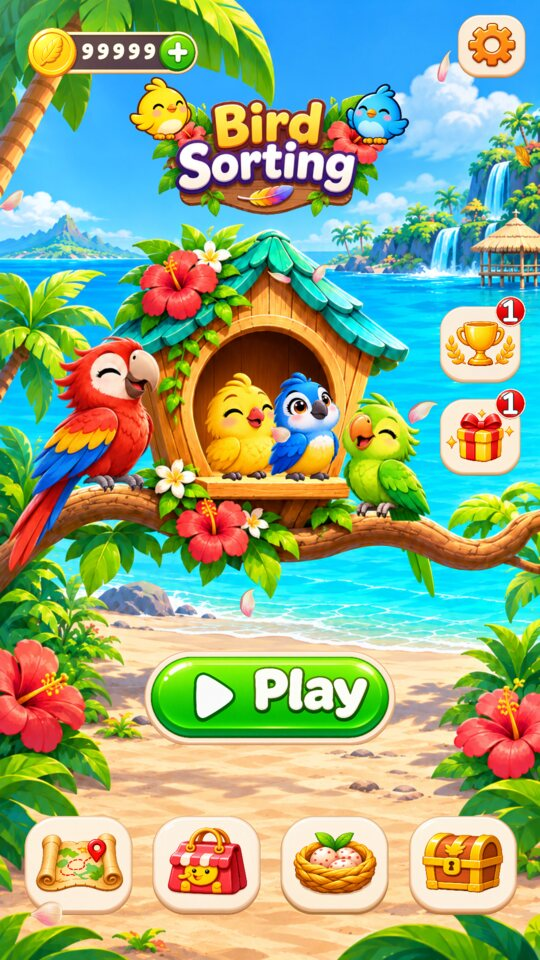
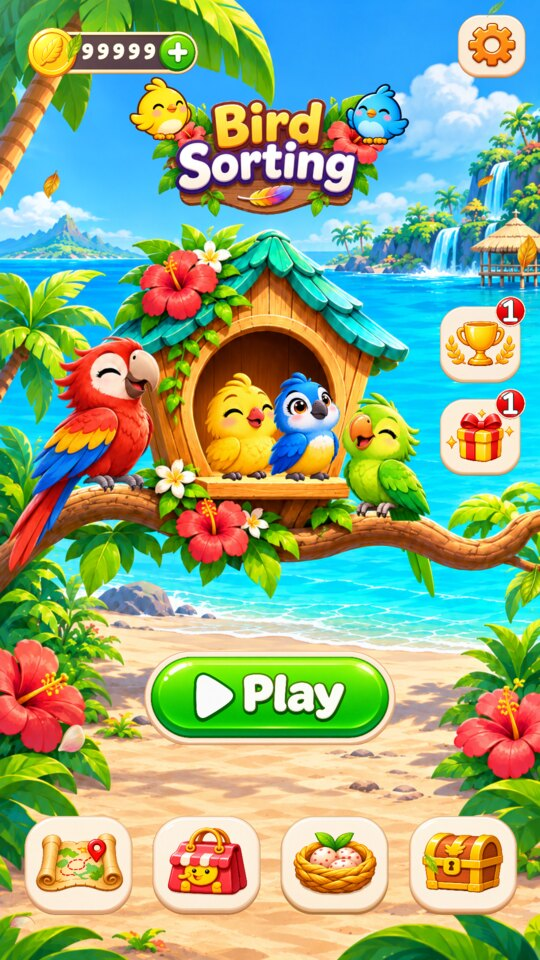
Center localized home play buttons

diff --git a/docs/work-log/island-home/report.md b/docs/work-log/island-home/report.md
@@ -1,46 +1,40 @@
 # Island homepage report
 
-## Current refinement
-- Corrected both parrot perch contacts without changing source frames or display scale. Red contact pivot is `(190,855)`, green is `(671,905)`; per-frame claw rows replace the old padding-based contact assumption. Each pose is anchored before display and on `frame_changed`, and breathing stays about the contact pivot. The red bird shifts onto an unobstructed branch section.
-- Ran the canonical homepage again in both languages and captured 40 sampled motion frames. Personally inspected the full foot-contact sheet; independent review inspected f000, f010, f022 and f039. Both parrots meet the branch in the reviewed samples. No all-eight-poses coverage, exact frame-rate, timing or audio claim is made.
-- The combined icon-and-word alignment request remains open. Localized whole-button candidates are being prepared from existing accepted artwork for user asset review; they are not implemented by this commit.
+## Latest complete-button integration
+The user approved the complete Chinese/English button comparison and authorized continuation. The approved PNGs are now the homepage's `Play/Face` textures. Each contains its entire triangle-and-word composition, so a separate word node can no longer drift relative to the icon. The old homepage word shader and its UID are removed.
 
-- Integrated the approved `Bird Sorting` title at the smaller phone-reviewed size. Its transparent cut retains all 166,511 visible original RGB pixels exactly; only transparency and display size change.
-- Replaced the homepage coin HUD with the approved feather-coin / dark-slot / green-plus artwork. The number region is separate from the plus. The plus is retained visually for a future entry; no purchase, recharge or new click action exists.
-- Homepage coins now display plain digits without commas, capped at 99999. The profile balance, economy, saves and values on other pages are not changed.
-- Added the approved independent painted `Play` and `开始` word sprites. A locale-change notification updates the homepage word immediately when Settings switches language. No shared locale catalog or shared font behavior changed.
-- Applied the user's follow-up that the controls had been reduced too far. Bottom faces are now 190x174, about 9 percent smaller than the original 208x191 design rather than the previous 21 percent reduction. Their original 208x191 hit targets and positions stay unchanged. Play is restored to a 440x171 visible surface with a 210x100 word box and a 460x191 hit area around the same center. It remains smaller than the original large mockup pill and retains clear primary-action hierarchy. The documented elongated-Play width exception still applies.
-- Corrected the subsequent text-to-button mismatch without resizing the button again. The preceding painted words filled roughly 73 percent (Chinese) / 70 percent (English) of the visible pill height, making the surface crowded. A centered 210x100 text box reduces actual ink to about 58 percent for both languages and restores space beside the play icon and inside the rim. This changes only placement and scale of accepted word textures.
-- Corrected vertical alignment and fill color after the user's next review. The earlier text box was centered on the complete button including its thick lower rim. At the current display size, the actual bright-green surface center is about 76.7 reference pixels below the face top; the Chinese/English bright letter fills now center at about 76.6 after a 7px upward move. The previous fill medians were #fde8bd / #fcefcb, visibly yellower than the reference #fdfdf7. A homepage-only color shader neutralizes the pale fill while preserving dark edging, alpha, silhouette and original PNG bytes. Button size and the 210x100 word box remain unchanged.
-- Centered the visible numeral ink in the coin slot. The old alignment centered a 120px cell despite unequal transparent top/bottom margins, causing the number to appear high. The number area now has center y90.5 in reference pixels, and the complete ink union is aligned to it without changing glyph assets or balances.
-- Reward badges remain attached to the smaller visible navigation faces, rather than floating at the old touch-target edge.
-- Retained all six existing entries, Settings, original background, house, bird frame sequences, breathing, navigation signals, level selection, audio and reward badges. The yellow logo bird moves 20 reference pixels right to sit on the smaller sign.
-- Updated homepage regression source for retained navigation hit areas and equal compact faces. The previous circular width check now checks primary height, reflecting the UI system's existing elongated-Play exception and the latest user request. Earlier balance/localization assertions are retained. This suite was not executed.
+- Both production PNGs are byte-identical to the approved candidates. The accepted base and painted word sources remain unchanged. All base pixels outside the overlaid word alpha, including the baked triangle, are unchanged.
+- The group is centered against the whole visible green face, including its dark lower bevel. The earlier bright-surface-only assumption is superseded. Source face and group share center `(996,372.5)`; exact bounds and hashes are recorded in the manifest/validation file.
+- Preserve the 460x191 hit area, 440x171 face container, native aspect ratio (`KEEP_ASPECT_CENTERED`), callback and pressed tint. The source artwork is 1993x757; the container does not stretch it to a new aspect ratio.
+- The locale notification swaps the complete texture in the same face node. English remains the natural game label `Play`; Chinese is `开始`.
+- This change does not touch coins, parrots, other pages, shared UI helpers, game logic, levels, save schema or audio code.
 
-## Asset gate and scope
-The user reviewed the independent assets and full phone-scale composites and then explicitly requested implementation. `asset-manifest.json` records this asset approval. The initial reference remains unchanged at `art/approved_ui/island_home.png`; the exact title source and reviewed typography composition are retained separately. No missing 3D model applies to this 2D homepage. The final word/button size correction uses accepted assets, not a redraw. The retained review composite predates the last no-comma and button-proportion requests; the current spec and implementation supersede those details without altering the retained original.
+## Retained homepage refinements
+- Exact-source `Bird Sorting` title at the smaller phone-reviewed size. All 166,511 visible original RGB pixels are preserved; only transparency/display size differ from the source.
+- Approved feather-coin HUD, independent numeral area and retained green plus. No recharge action is implemented. Plain digits are capped at 99999 in presentation only; the real balance, economy and save data are unchanged.
+- Four bottom faces remain 190x174, inside unchanged 208x191 touch targets. Reward badges follow the visible faces. Daily Challenge, Lucky Draw, Map, Shop, Aviary and Chest remain, as do Play and Settings.
+- Both parrots remain planted using their existing per-pose claw anchors, with their PNGs and original display scale unchanged. The yellow logo bird remains seated on the smaller title. Other birds, background, house and scenery remain unchanged.
 
-Only the canonical homepage presentation, its isolated assets, homepage regression source and related work-log files are changed. Core, Meta, shared UI helpers, other screens, progression, levels and save schema are untouched. No additional page, parallel demo scene, merge or deployment is included.
+## Verification for this integration
+User authority covers a focused actual homepage run, image comparison and Settings language switching before submission. Full suites are not part of this run.
 
-## Verification for this refinement
-The user subsequently requested an actual run and image comparison before submitting. This supersedes the earlier no-run request for this homepage correction only.
+Ran `build/island-home/layout-review/run-buttons.sh` using Godot 4.7.2, isolated XDG data/config/cache and fake profiles without save writes:
+1. `Godot_v4.7.2-stable_linux.x86_64 --headless --editor --path PerchSort --import`.
+2. Two canonical `main.tscn` captures under `xvfb-run -a -s '-screen 0 1280x2000x24'`, with `--path PerchSort --audio-driver Dummy --rendering-driver opengl3 --resolution 1080x1920 -- --capture=<output> --lang=<locale> --profile=<JSON> --wait=0.8`.
+3. A focused SceneTree harness instantiating the same canonical main scene with `--script build/island-home/layout-review/check_language.gd`. It triggers the actual Settings and Language button signals, not a separate UI implementation.
 
-Ran Godot 4.7.2 asset import and two focused canonical-homepage captures using `build/island-home/layout-review/run.sh`, with isolated XDG data/config/cache and no save writes:
-- `Godot_v4.7.2-stable_linux.x86_64 --headless --editor --path PerchSort --import`
-- Under `xvfb-run -a -s '-screen 0 1280x2000x24'`: the same Godot binary with `--path PerchSort --audio-driver Dummy --rendering-driver opengl3 --resolution 1080x1920 -- --capture=<output> --lang=<locale> --profile=<fake profile JSON> --wait=0.8`.
-- Chinese input: `{"coins":50585,"language":"zh"}`. English input: `{"coins":1234567,"language":"en"}`.
-- Both runs completed successfully and produced 1080x1920 screenshots. No parse/script/error lines occurred. Both logs contain only the expected virtual-display warning that V-Sync cannot be changed.
-- Personally inspected both real runtime images against the user screenshot and retained design: visible coin numerals are vertically centered, 50585/99999 are clear of the plus, Play/开始 fit their larger surface, and all four smaller bottom faces retain even spacing. The header, house and six entries remain present. These captures were rerun after the parrot contact correction; no screenshot from the preceding correction is reused. These stills establish layout only, not animation or sound.
-- Evidence: `build/island-home/layout-review/{home_zh.png,home_en.png,home_zh.log,home_en.log,import.log}`. Small copies of the current captures and logs are in `evidence/layout-review/` for review, not in the approved-runtime baseline.
+Chinese capture: balance 50585, display 50585. English capture: balance 1234567, display 99999. Both fresh 1080x1920 images were personally inspected: the full icon/word group is centered and readable, white fill and dark edge remain clear, native proportions are preserved, and parrot contacts plus six navigation entries remain intact. A repeated ordinary capture avoids a transient drifting petal covering the English label; ambient code is unchanged. These are game renders, not composited mockups.
 
-Independent review inspected the source diff, the same actual runtime images and capture logs and reported no blocking findings.
+The focused language check passed all 15 assertions, including English to Chinese and back, unchanged HomeView and face instances, correct complete textures, unchanged face/hit bounds, and no separate word node. It verifies the Settings signal path, not physical pointer dispatch. The first harness exit left the currently playing menu WAV referenced; verbose output identified the audio playback. Muting and settling audio during harness teardown resolved it. No production audio code changed. The final run has no script/parse/resource-leak errors; the only warning is virtual X11's unsupported V-Sync change.
 
-**NOT RUN:** regression/core/smoke suites, lint, build/export, navigation interactions, full animation acceptance and audio checks. The limited parrot contact inspection is described below. Static review and two focused captures are not a full pass. Updated regression assertions remain unexecuted. No new approved runtime baseline is created.
+Current evidence: `evidence/layout-review/{home-zh.jpg,home-en.jpg,home_zh.log,home_en.log,language.log,check_language.gd}`. The full-resolution PNGs and import log remain in `build/island-home/layout-review/`.
 
-Asset files were not redrawn, replaced or modified for this correction. The completed earlier source-pixel and asset checks remain provenance evidence. Tests and runtime evidence from baseline `e4d98be73f9e24954f25aa1933ed5431b30b2975` are historical and do not verify this correction.
+**NOT RUN:** regression/core/smoke suites, lint, build/export, unrelated navigation or physical-input dispatch, full animation acceptance and audio listening/timing. Updated regression assertions remain unexecuted. These focused checks are not a full pass. Runtime visual acceptance remains with the user; no approved-runtime baseline was created.
 
-## Parrot runtime evidence
-`build/island-home/layout-review/run-perches.sh` repeats the two focused homepage captures, then uses the canonical scene with `--capture=<unused path> --frames=<perch-motion> --motion --wait=5 --step=0.125 --lang=zh --profile={"coins":50585,"language":"zh"}`. Capture mode prevents save writes. The result is 40 sampled PNG frames; `main.gd` waits after saving each frame, so this is not a proven five-second / fixed-8fps sequence. No frame timestamps or pose IDs were logged. The contact-sheet order is left-to-right, top-to-bottom; each tile shows red then green feet. See `evidence/perch-review/contact-sheet.jpg` and `runtime.log`. Runtime logs have no script/parse errors, only the virtual-display V-Sync warning.
+## Earlier parrot evidence
+Commit `21932a2f` independently corrected the parrot contacts and captured 40 real runtime samples. The full contact sheet was viewed, with independent inspection of f000, f010, f022 and f039; both parrots meet the branch in those samples. See `evidence/perch-review/contact-sheet.jpg` and `runtime.log`. PNG saving/rendering adds time after each configured 0.125-second wait, so this is not proof of a five-second fixed-8fps sequence or coverage of all eight poses. It was not rerun for the button-only integration; current stills confirm the resting layout only.
+
+Earlier baseline `e4d98be73f9e24954f25aa1933ed5431b30b2975` test results are historical and do not verify this integration.
 
 ## User handover
-Push `island-ui-redesign` and keep PR #209 a draft. Ask the user to pull that branch and try the normal Godot homepage. Suggested checks: button/text balance, `Play` / `开始` switching while the homepage remains open, no commas in coins, balances above 99999 displayed as 99999 without changing the real balance, the retained plus, and all six existing entries. Runtime and visual acceptance remain with the user.
+Pull `island-ui-redesign` and open `PerchSort/project.godot` in Godot 4.7.2. Check the whole button's balance, switch language from Settings without leaving Home, and review the retained parrot contacts. Keep PR #209 a draft. No merge, deployment or release is authorized.

diff --git a/docs/work-log/island-home/spec.md b/docs/work-log/island-home/spec.md
@@ -11,7 +11,7 @@ The approved flattened reference has no editable layers. Missing independent ass
 - Keep independent Play, Settings and the live coin counter. Retain existing navigation signals, next-level selection and reward-availability badges.
 - Match the approved 940 x 1674 composition in the canonical 1080 x 1920 canvas.
 - Use independent transparent control textures, a clean background and six illustrated birds. Each bird has eight distinct drawn idle frames, anchored at its feet; breathing is the only continuous body transform. No mirroring.
-- Keep English/Chinese switching. Play uses the approved independent painted word sprites, `Play` and `开始`, and refreshes in place when Settings changes the language.
+- Keep English/Chinese switching. Play uses the approved complete localized button textures, `Play` and `开始`, and refreshes the same face in place when Settings changes the language.
 - Disabled/pressed controls retain their size. Event buttons share one footprint; bottom navigation buttons share another footprint, as in the approved design.
 - Keep `home_view:home` and `home_view:home_new` fake-data previews and add a maximum-value review state.
 
@@ -22,15 +22,17 @@ Measured reference-canvas layout:
 - Title: `(260,159,420,226)`. The yellow logo bird's feet move from x265 to x285 to remain supported by the smaller sign; bird art and size do not change.
 - Coin HUD: `(22,31,350,117)`, numeric area `(139.5,71.5,135,38)`. Preserve the plus as part of the approved artwork, with no recharge or purchase action.
 - Show plain digits without separators. Values above 99999 show 99999; this is display-only and never writes back to the profile or economy.
-- Following the user's runtime screenshot feedback, Play is centered at the same point with a `(240,1122.5,460,191)` hit area and a 440x171 visible face. Its approved painted word fits a 210x100 box at local `(197,38.5)`. The label moves 7 reference pixels up so its bright fill aligns with the actual green surface rather than the thick lower rim. A homepage-only shader maps the pale warm fill to the reference soft white (approximately #fdfdf7), retaining alpha, silhouette and dark green edging without modifying the approved PNG. The painted ink occupies about 58 percent of the visible button height, leaving deliberate top/bottom space and a gap after the play icon. The larger hit area fully contains the previous one. The elongated-pill width exception in `docs/design/ui-system.md` applies; its height stays at or below the navigation height.
+- Play retains its `(240,1122.5,460,191)` hit area and a 440x171 face container. The approved complete Chinese/English textures share the same 1993x757 canvas and render with `KEEP_ASPECT_CENTERED`, not stretched. The icon and word are composed once as a centered group; there is no separate runtime word position or color shader. The larger hit area and press tint remain unchanged. The elongated-pill width exception in `docs/design/ui-system.md` applies; its height stays at or below the navigation height.
 - The four bottom navigation faces are 190x174 (about 9 percent below the original 208x191 design, rather than the over-reduced 164x151), centered inside unchanged 208x191 touch targets. Their positions, spacing and callbacks remain unchanged. Reward badges follow the visible face. Settings, the two event controls, house, background, bird frame sequences and other pages remain unchanged.
 - Vertically center the union of the actual numeral ink bounds, rather than the unequal transparent glyph-cell margins. Preserve numeral size, baseline spacing and the separate plus region.
 
 ## Parrot perch correction
 The user reported both large parrots floating above the branch. Keep every accepted animation PNG and the original display scale. The macaw contact pivot is `(190,855)` and the green parrot pivot is `(671,905)`. Each of their eight poses uses its measured claw-contact row in `PARROT_FOOT_Y`; the image offset updates on `frame_changed` so breathing and pose changes retain the same planted contact point. The red bird shifts slightly left onto the unobstructed branch crest. Other birds are unchanged.
 
-## Pending complete-button review
-The user requested the icon and word as one centered, localized button image. The triangle is baked into the accepted face. A no-redraw composition using that face and the existing approved words is being prepared for asset review; it is not integrated. The old unrelated green plate must not replace the accepted island face. This pending requirement is separate from the completed parrot correction.
+## Approved complete localized buttons
+The user reviewed the complete Chinese/English button comparison and authorized continuation. The textures reuse the accepted base and painted words without repainting. The baked triangle and all base pixels outside the word alpha are unchanged. Soft-white letter fill is baked using the previously reviewed runtime color treatment; the source word PNGs remain unchanged.
+
+The whole green face includes its dark lower bevel. Its source bounds `(57,52)..(1935,693)` and the combined triangle/word bounds `(394,177)..(1598,568)` share center `(996,372.5)`. Both localized words use a 390-pixel visible height. Their offsets are `(813,179)` for Chinese and `(777,179)` for English. This corrects the earlier bright-surface-only alignment assumption. The original base and source words remain retained assets; only the approved new composites are displayed. Switch the complete face on the existing locale notification, preserving its node, size and press state.
 
 ## Validation and handover
-The user subsequently requested an actual game run and comparison with the reference before committing. This authorizes asset import and focused homepage runtime captures, superseding the earlier no-run request for this correction. Run the canonical homepage in Chinese with an ordinary five-digit balance and in English with an overflow balance, inspect both captures, and report exact commands and logs. Do not expand this into the full regression/core suites, lint, build/export, navigation, timed animation or audio testing. Those remain not run except the subsequently authorized parrot pose-contact inspection: 40 sampled real runtime frames. The configured 0.125-second wait is not a proven fixed capture rate because PNG saving and rendering add time. Runtime visual acceptance still belongs to the user; do not create an approved runtime baseline before approval.
+The user subsequently requested an actual game run and comparison with the reference before committing. This authorizes asset import and focused homepage runtime captures, superseding the earlier no-run request for this correction. Run the canonical homepage in Chinese with an ordinary five-digit balance and in English with an overflow balance, inspect both captures, and report exact commands and logs. Also verify the actual Settings language toggle in both directions without rebuilding HomeView. Do not expand this into the full regression/core suites, lint, build/export, unrelated navigation, timed animation or audio testing. Those remain not run except the subsequently authorized parrot pose-contact inspection: 40 sampled real runtime frames. The configured 0.125-second wait is not a proven fixed capture rate because PNG saving and rendering add time. Runtime visual acceptance still belongs to the user; do not create an approved runtime baseline before approval.
